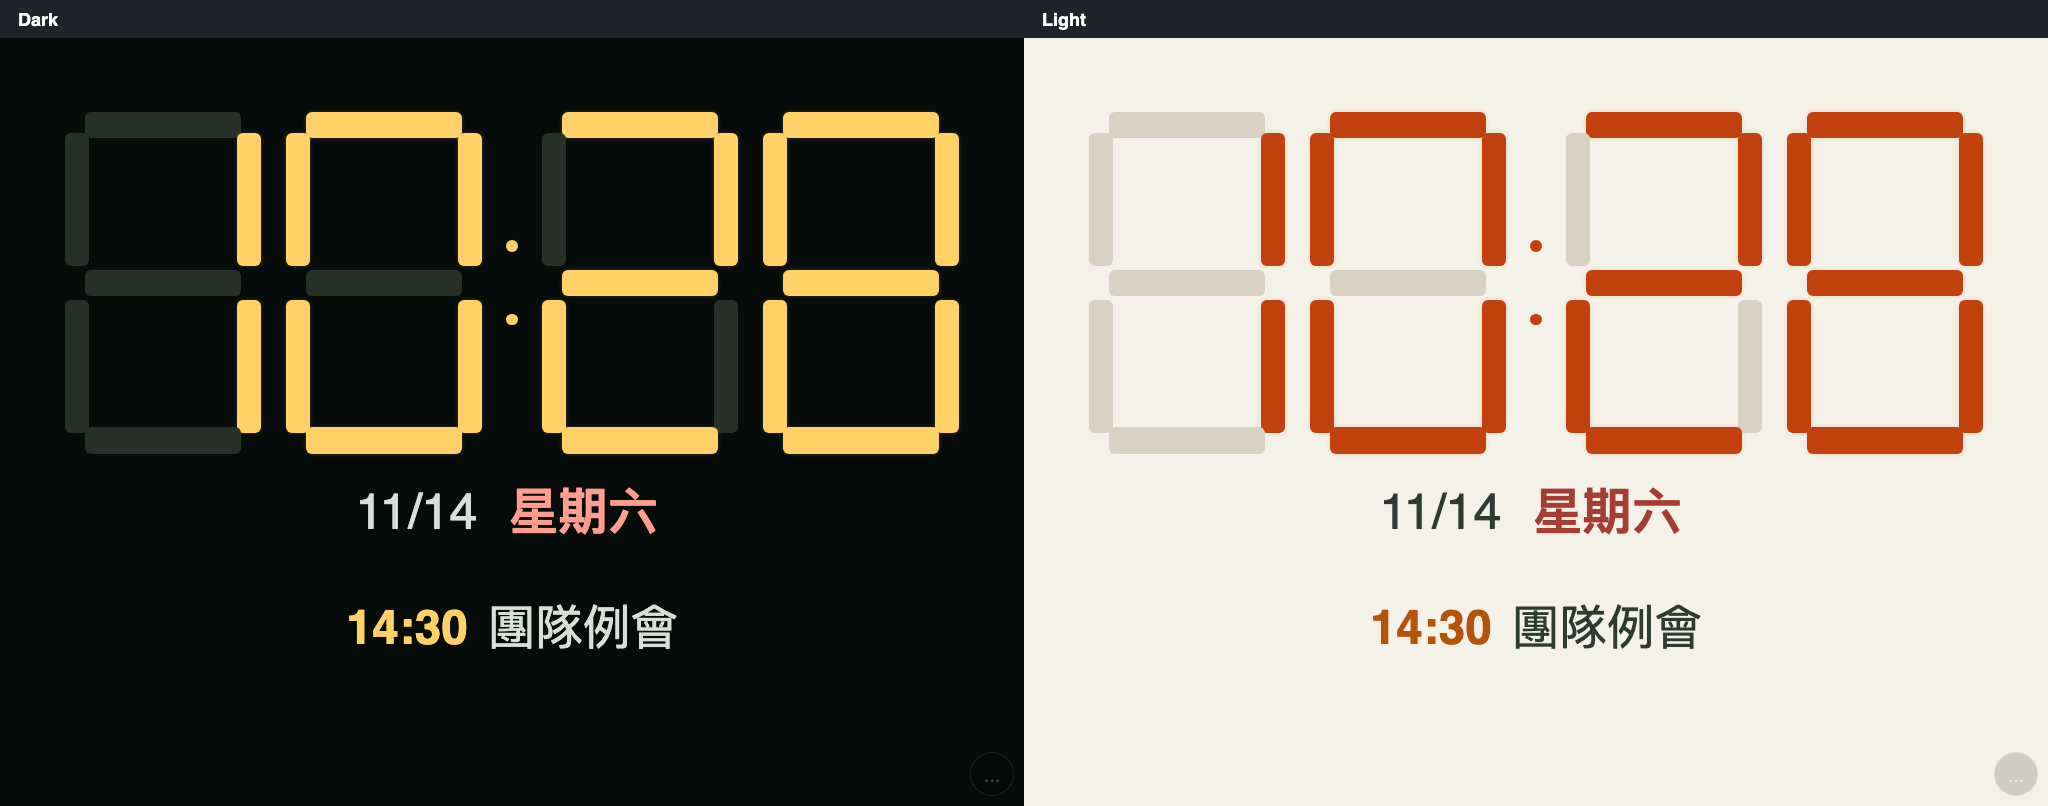
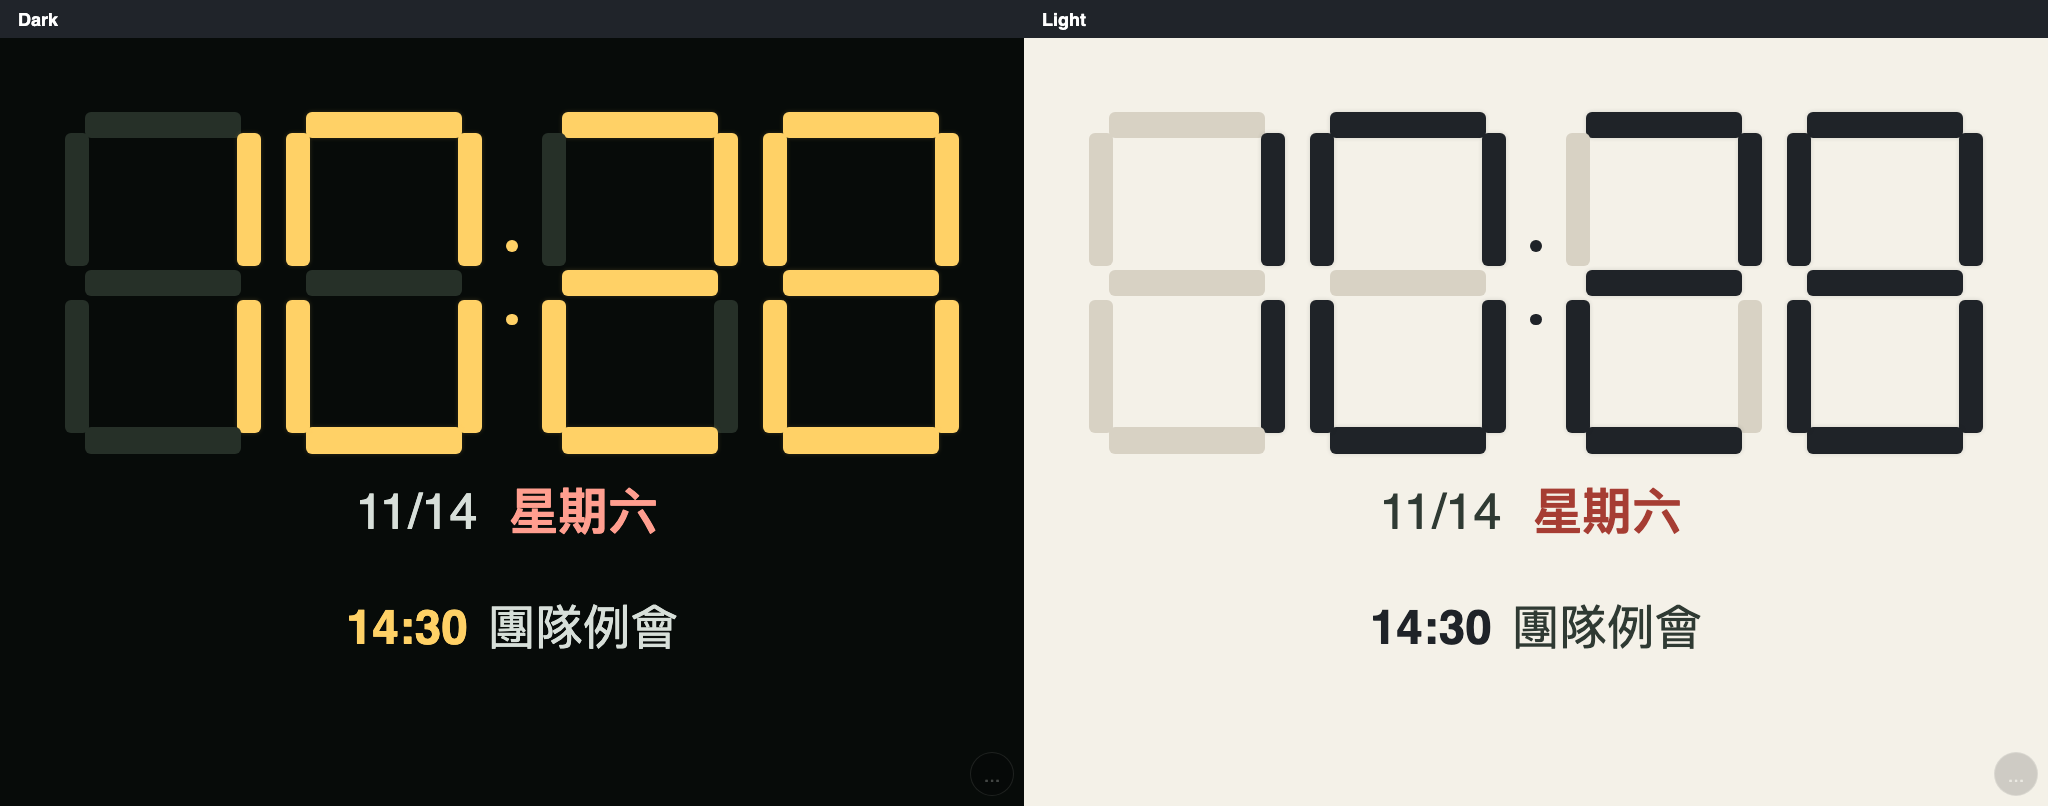
Use black digits for the light seven-segment palette
- Change the light segment clock's lit segments, colon dots, AM/PM and
  message time from orange/red to the black ink color.
- Update the light segment style thumbnail and the palette contract.
- Assert the black light-theme segment color in the real browser check and
  refresh the affected screenshots and metrics.

Changed region(s): [[0.5938, 0.1241, 0.9688, 0.5893], [0.6562, 0.7444, 0.75, 0.8065]]

diff --git a/templates/admin.html b/templates/admin.html
@@ -129,7 +129,7 @@
         {% elif style == 'flip' %}
         <svg class="clock-style-thumb-{{ theme }}" viewBox="0 0 160 120" role="presentation"><rect width="160" height="120" fill="{{ '#101214' if dark else '#F4F1E8' }}"/><rect x="18" y="28" width="54" height="64" rx="6" fill="{{ '#24282D' if dark else '#FFFFFF' }}"{% if not dark %} stroke="#E2DCD2" stroke-width="1"{% endif %}/><rect x="88" y="28" width="54" height="64" rx="6" fill="{{ '#24282D' if dark else '#FFFFFF' }}"{% if not dark %} stroke="#E2DCD2" stroke-width="1"{% endif %}/><path d="M18 60h54M88 60h54" stroke="{{ '#111315' if dark else '#EAE3D8' }}"/><text x="45" y="72" text-anchor="middle" fill="{{ '#F5F2EA' if dark else '#1F2328' }}" font-size="30" font-family="Helvetica, Arial, sans-serif">10</text><text x="115" y="72" text-anchor="middle" fill="{{ '#F5F2EA' if dark else '#1F2328' }}" font-size="30" font-family="Helvetica, Arial, sans-serif">28</text><text x="80" y="69" text-anchor="middle" fill="{{ '#8E949E' if dark else '#7A828C' }}" font-size="20" font-family="Helvetica, Arial, sans-serif">:</text><text x="80" y="108" text-anchor="middle" fill="{{ '#B8BDC6' if dark else '#4B5563' }}" font-size="10" font-family="Helvetica, Arial, sans-serif">11/14 · Sat</text></svg>
         {% elif style == 'segment' %}
-        <svg class="clock-style-thumb-{{ theme }}" viewBox="0 0 160 120" role="presentation"><rect width="160" height="120" fill="{{ '#070B09' if dark else '#F4F1E8' }}"/><g fill="{{ '#FFD166' if dark else '#C2410C' }}"><rect x="28" y="26" width="36" height="7" rx="2"/><rect x="24" y="33" width="7" height="24" rx="2"/><rect x="61" y="33" width="7" height="24" rx="2"/><rect x="28" y="57" width="36" height="7" rx="2"/><rect x="24" y="64" width="7" height="24" rx="2"/><rect x="61" y="64" width="7" height="24" rx="2"/><rect x="28" y="88" width="36" height="7" rx="2"/><rect x="98" y="26" width="36" height="7" rx="2"/><rect x="94" y="33" width="7" height="24" rx="2"/><rect x="131" y="33" width="7" height="24" rx="2"/><rect x="98" y="57" width="36" height="7" rx="2"/><rect x="94" y="64" width="7" height="24" rx="2"/><rect x="131" y="64" width="7" height="24" rx="2"/><rect x="98" y="88" width="36" height="7" rx="2"/></g><circle cx="80" cy="50" r="2.5" fill="{{ '#FFD166' if dark else '#C2410C' }}"/><circle cx="80" cy="72" r="2.5" fill="{{ '#FFD166' if dark else '#C2410C' }}"/></svg>
+        <svg class="clock-style-thumb-{{ theme }}" viewBox="0 0 160 120" role="presentation"><rect width="160" height="120" fill="{{ '#070B09' if dark else '#F4F1E8' }}"/><g fill="{{ '#FFD166' if dark else '#1F2328' }}"><rect x="28" y="26" width="36" height="7" rx="2"/><rect x="24" y="33" width="7" height="24" rx="2"/><rect x="61" y="33" width="7" height="24" rx="2"/><rect x="28" y="57" width="36" height="7" rx="2"/><rect x="24" y="64" width="7" height="24" rx="2"/><rect x="61" y="64" width="7" height="24" rx="2"/><rect x="28" y="88" width="36" height="7" rx="2"/><rect x="98" y="26" width="36" height="7" rx="2"/><rect x="94" y="33" width="7" height="24" rx="2"/><rect x="131" y="33" width="7" height="24" rx="2"/><rect x="98" y="57" width="36" height="7" rx="2"/><rect x="94" y="64" width="7" height="24" rx="2"/><rect x="131" y="64" width="7" height="24" rx="2"/><rect x="98" y="88" width="36" height="7" rx="2"/></g><circle cx="80" cy="50" r="2.5" fill="{{ '#FFD166' if dark else '#1F2328' }}"/><circle cx="80" cy="72" r="2.5" fill="{{ '#FFD166' if dark else '#1F2328' }}"/></svg>
         {% elif style == 'paper' %}
         <svg class="clock-style-thumb-{{ theme }}" viewBox="0 0 160 120" role="presentation"><rect width="160" height="120" fill="{{ '#171A1D' if dark else '#F2EEE5' }}"/><text x="80" y="28" text-anchor="middle" fill="{{ '#BFB8AE' if dark else '#5D6267' }}" font-size="8" letter-spacing="1.4" font-family="Helvetica, Arial, sans-serif">11/14 · SAT</text><text x="80" y="79" text-anchor="middle" fill="{{ '#EAE4D9' if dark else '#252B30' }}" font-size="42" font-family="Georgia, serif">10:28</text><text x="24" y="108" fill="{{ '#BFB8AE' if dark else '#5D6267' }}" font-size="7" font-family="Helvetica, Arial, sans-serif">14:30</text><text x="136" y="108" text-anchor="end" fill="{{ '#BFB8AE' if dark else '#5D6267' }}" font-size="7" font-family="Helvetica, Arial, sans-serif">Team meeting</text></svg>
         {% endif %}

diff --git a/tests/browser_clock_styles.js b/tests/browser_clock_styles.js
@@ -476,6 +476,10 @@ async function main() {
                     style + ' actual has the ' + theme + ' theme class');
                 assert.ok(actualState.body.indexOf('clock-theme-' + (theme === 'dark' ? 'light' : 'dark')) < 0,
                     style + ' actual must not carry both theme classes');
+                if (style === 'segment' && theme === 'light') {
+                    assert.equal(actualState.segment, 'rgb(31, 35, 40)',
+                        'light seven-segment digits use the black palette');
+                }
                 await navigate(BASE + '/admin/preview?style=' + style + '&theme=' + theme +
                     '&sample=1&show_seconds=0');
                 await waitForStyle(style);

diff --git a/static/clock-styles.css b/static/clock-styles.css
@@ -722,17 +722,20 @@ body.clock-theme-light.clock-style-segment .segment {
 }
 
 body.clock-theme-light.clock-style-segment .segment.on {
-    background: #C2410C;
-    box-shadow: 0 0 4px rgba(194, 65, 12, 0.16);
+    background: #1F2328;
+    box-shadow: 0 0 4px rgba(31, 35, 40, 0.16);
 }
 
 body.clock-theme-light.clock-style-segment .segment-dot {
-    background: #C2410C;
+    background: #1F2328;
 }
 
-body.clock-theme-light.clock-style-segment .clock-period,
+body.clock-theme-light.clock-style-segment .clock-period {
+    color: #1F2328;
+}
+
 body.clock-theme-light.clock-style-segment .event-time {
-    color: #B45309;
+    color: #1F2328;
 }
 
 body.clock-theme-light.clock-style-segment #date-info,

diff --git a/doc/development/clock-styles-spec.md b/doc/development/clock-styles-spec.md
@@ -123,7 +123,7 @@
 ### 視覺
 
 - 深色：背景 `#070B09`，點亮段 `#FFD166`，未亮段 `#263028`，日期及訊息 `#D7DFD9`。
-- 淺色：背景 `#F4F1E8`，點亮段 `#C2410C`，未亮段 `#D8D2C4`，日期及訊息 `#2F3A33`。
+- 淺色：背景 `#F4F1E8`，點亮段 `#1F2328`（黑），未亮段 `#D8D2C4`，日期及訊息 `#2F3A33`，訊息時間 `#1F2328`。
 - 時間以真正七段幾何數字呈現，不能只挑一般等寬字型冒充；四位時分加兩點冒號，固定字格。
 - 每段是絕對定位的水平或垂直圓角矩形；可接受本地內嵌 SVG 的矩形，但不能依賴 SVG filter、外部字型或遠端字型服務。
 - 橫向無秒數：每字寬 20vw、高 34vw；有秒數：13.5vw × 22.5vw；秒數另用 5.5vw × 10vw 小字。

diff --git a/doc/development/clock-styles-implementation-report.md b/doc/development/clock-styles-implementation-report.md
@@ -78,7 +78,7 @@
 | --- | --- | --- |
 | classic | 黑底 `#000000`、白字 | 米白底 `#F4F1E8`、深字 `#1F2328` |
 | flip | 背景 `#101214`、面板 `#24282D`、數字 `#F5F2EA` | 背景 `#F4F1E8`、白色面板、數字 `#1F2328`、秒數 `#9A5B13` |
-| segment | 背景 `#070B09`、亮段 `#FFD166`、暗段 `#263028` | 背景 `#F4F1E8`、亮段 `#C2410C`、暗段 `#D8D2C4` |
+| segment | 背景 `#070B09`、亮段 `#FFD166`、暗段 `#263028` | 背景 `#F4F1E8`、亮段 `#1F2328`（黑）、暗段 `#D8D2C4`、訊息時間 `#1F2328` |
 | paper | 背景 `#171A1D`、主字 `#EAE4D9`、次字 `#BFB8AE` | 背景 `#F2EEE5`、主字 `#252B30`、次字 `#5D6267` |
 
 深淺只改色盤，不改時間 DOM、字級、幾何、日期／訊息布局或 90% classic 門檻。
